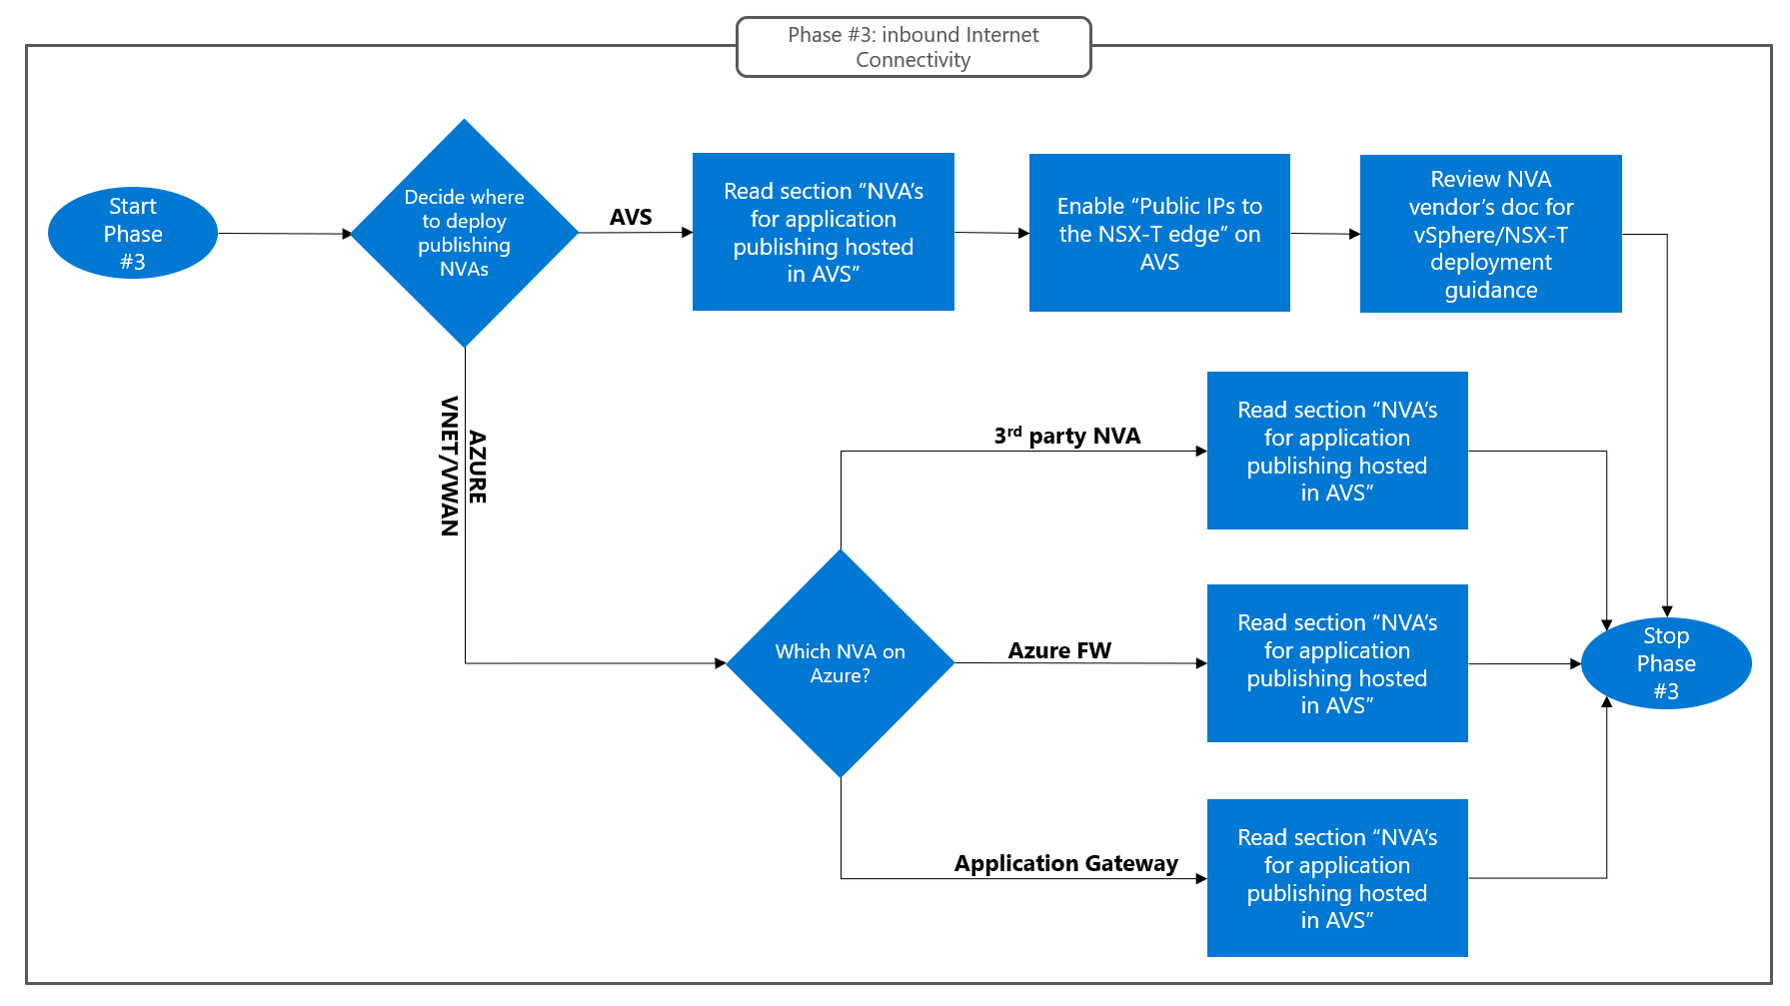
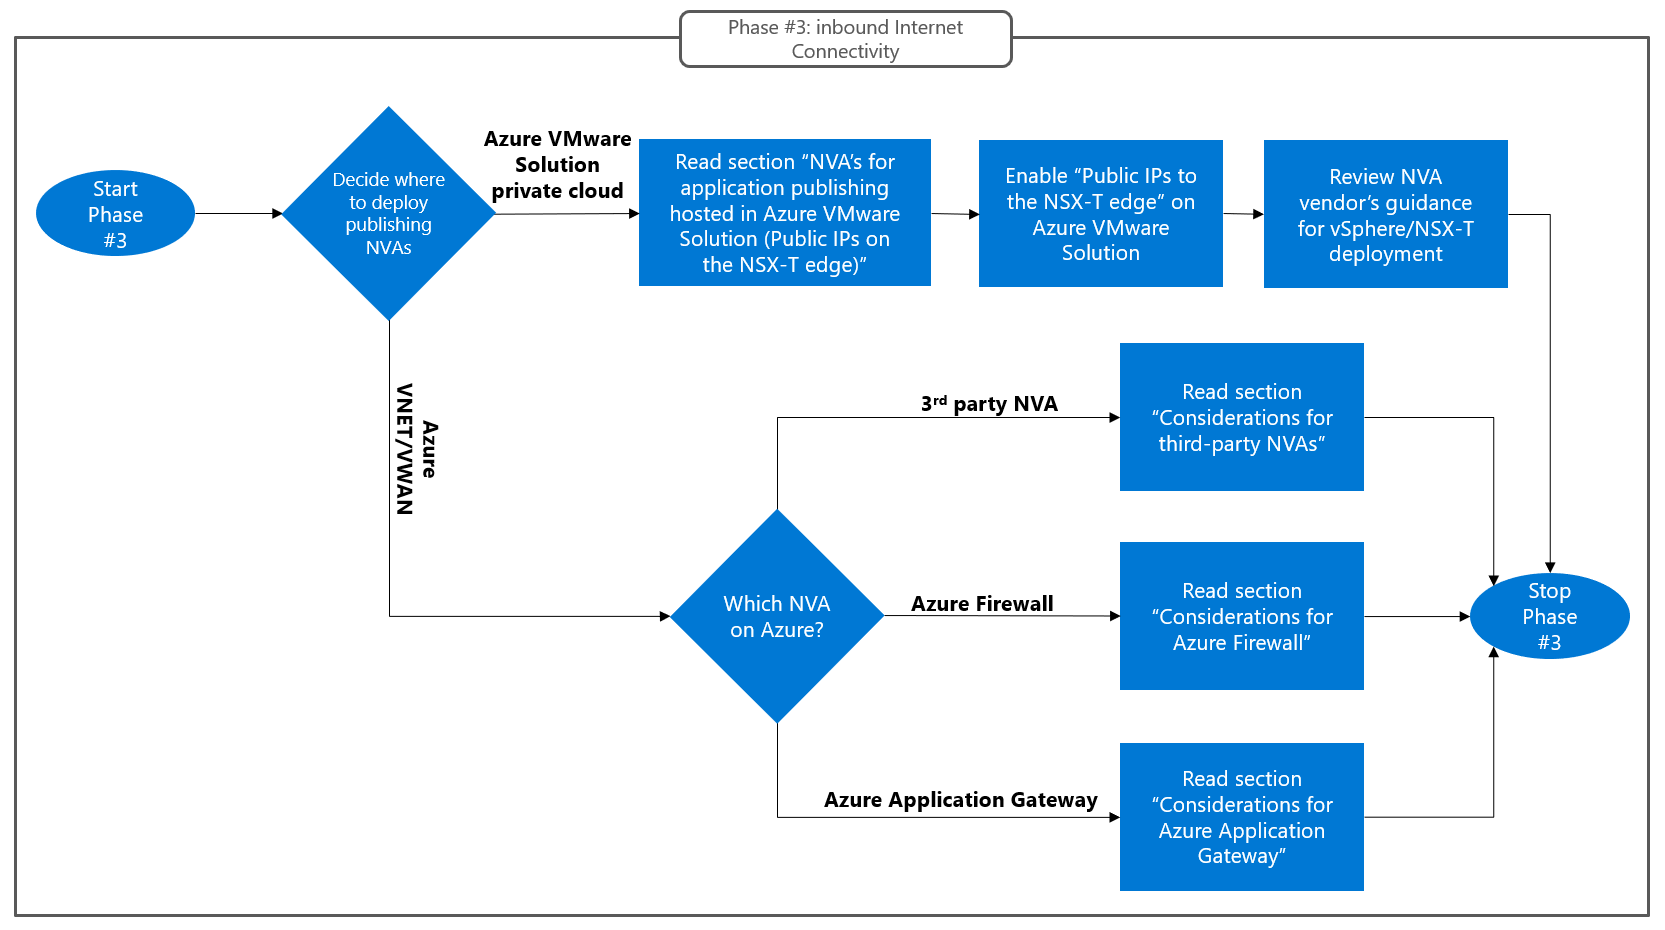
Review Phase#3

diff --git a/Network Design Guide/internet-inbound-connectivity.md b/Network Design Guide/internet-inbound-connectivity.md
@@ -1,9 +1,9 @@
 # Design phase #3: Internet inbound connectivity
-Inbound Internet connectivity for Azure VMware Solution must be designed based on the requirements set forth by applications running on Azure VMware Solution that must be reachable over public IP addresses. Almost invariably, Internet-facing applications are published through network devices for security (next generation firewalls, web application firewalls) and load balancing (layer-3/layer-4 load balancers, application delivery controllers, …) purposes. Azure VMware Solution supports deploying devices that provide these network functions on Azure VMware Solution itself, or in an Azure VNet connected to the private cloud. Choosing between these two options is the main goal of phase #3. The following considerations may help drive the decision:
+Design Phase #3 is driven by the requirements of the applications running on Azure VMware Solution that must be reachable over public IP addresses. Almost invariably, Internet-facing applications are published through network devices that provide security (next generation firewalls, web application firewalls) and load balancing (layer-3/layer-4 load balancers, application delivery controllers, …) functions. Such devices can be deployed on the private cloud itself, or in an Azure VNet connected to the private cloud. Choosing between these two options is the main goal of Design Phase #3. The following considerations may help drive the decision:
 
-- Azure VMware Solution customers with a pre-existing Azure footprint may have deployed NVAs for application delivery in Azure, which should be used for Azure VMware Solution applications too (both for cost optimization and for consistency).
-- Azure VMware Solution customers may want to leverage PaaS solutions available on Azure, to reduce management overhead. Azure PaaS offerings for that can be used for publishing Internet-facing applications include Azure Firewall (both when deployed in a customer managed VNet and when deployed in a Virtual WAN Hub) and Azure Application Gateway.
-- Azure VMware Solution customers that prefer to host the network infrastructure that supports their Azure VMware Solution applications entirely on Azure VMware Solution may want to deploy firewalls and/or application delivery controllers as Azure VMware Solution virtual machines, if supported by the NVA vendor.
+-  Azure VMware Solution customers may want to leverage pre-existing NVAs deployed in Azure VNets (firewalls, application delivery controllers, ...) to publish applications running on their private cloud(s), for cost optimization and for consistency.
+- Azure VMware Solution customers may want to leverage PaaS solutions available on Azure, to reduce management overhead. Azure services that can be used for publishing Internet-facing applications include [Azure Firewall](https://learn.microsoft.com/azure/firewall/tutorial-firewall-dnat) (both when deployed in a customer managed VNet and when deployed in a Virtual WAN Hub) and [Azure Application Gateway](https://learn.microsoft.com/azure/application-gateway/overview).
+- Azure VMware Solution customers that prefer to host the network infrastructure for Internet publishing in their private cloud(s) may want to deploy firewalls and/or application delivery controllers as Azure VMware Solution virtual machines, if supported by the NVA vendor.
 
 The flow chart below summarizes how to approach Phase #3:
  
@@ -11,35 +11,31 @@ The flow chart below summarizes how to approach Phase #3:
 *Design Phase #3: Design outbound Internet connectivity based on where NVAs for application publishing will be hosted (Azure VMware Solution or Azure VNet).*
 
 ## NVAs for application publishing hosted in an Azure VNet
-Publising Azure VMware Solution applications via Azure first-party services (Azure Firewall, Azure Application Gateway) or third-party NVAs hosted in a VNet only requires connectivity between the VNet and the Azure VMware Solution private cloud (covered in section [Azure VNet connectivity](vnet-connectivity.md)). Azure VMware Solution applications are published behind Azure Public IP resources assigned to the first-party service or third-party NVAs. Standalone Public IPs, Public IPs from [Public Ip Prefixes](https://learn.microsoft.com/azure/virtual-network/ip-services/public-ip-address-prefix) or Public IPs from [Custom IP Prefixes (BYOIP)](https://learn.microsoft.com/azure/virtual-network/ip-services/custom-ip-address-prefix) can be used. The first-party services or the third-party NVAs can act either as layer 3/4 devices (i.e. route/NAT connections to the application server VMs on Azure VMware Solution) or as layer 7 devices (i.e. reverse-proxy connections). In both cases, the application server VMs on Azure VMware Solution receive traffic destined to their private IP and originating from the publishing service/NVA's private IP.  
+Publishing Azure VMware Solution applications via Azure first-party services (Azure Firewall, Azure Application Gateway) or third-party NVAs hosted in a VNet only requires layer-3 connectivity between the VNet and the private cloud (covered in section [Azure VNet connectivity](vnet-connectivity.md)). Azure VMware Solution applications are published behind Azure Public IP resources assigned to the first-party service or third-party NVAs. Standalone Public IPs, Public IPs from [Public Ip Prefixes](https://learn.microsoft.com/azure/virtual-network/ip-services/public-ip-address-prefix) or Public IPs from [Custom IP Prefixes (BYOIP)](https://learn.microsoft.com/azure/virtual-network/ip-services/custom-ip-address-prefix) can be used. The first-party services or the third-party NVAs can act either as layer-3/layer-4 devices (i.e. route/NAT connections to the application server VMs on Azure VMware Solution) or as layer-7 devices (i.e. reverse-proxy connections). In both cases, the application server VMs on Azure VMware Solution receive traffic destined to their private IP and originating from the publishing service/NVA's private IP. Routing-wise, this is traffic between virtual machines running in the private cloud and Azure virtual machines, which is dealt with by the implementation option chosen in [Design Phase #2](vnet-connectivity.md). 
 
 ### Considerations for Azure Firewall
-[Azure Firewall](https://learn.microsoft.com/azure/firewall/overview) is the preferred option for exposing generic TCP or UDP endpoints through a first party layer-3/4 device. To publish an Azure VMware Solution application through Azure Firewall, a DNAT rule must be configured, which maps the one of the firewall's public IPs to the Azure VMware Solution application endpoint's private IP. Azure Firewall automatically Source-NATs inbound connections from the Internet behind its private IP address. As a result, Azure VMware Solution virtual machines receive traffic whose source IP address is the Firewall's IP.
-Please refer to the official documentation for instructions on [how to configure DNAT rules on Azure Firewall](https://learn.microsoft.com/azure/firewall/tutorial-firewall-dnat). 
+[Azure Firewall](https://learn.microsoft.com/azure/firewall/overview) is the preferred option for exposing generic TCP or UDP endpoints through a first party layer-3/layer-4 device. To publish an Azure VMware Solution application through Azure Firewall, a DNAT rule must be configured, which maps the one of the firewall's public IPs to the Azure VMware Solution application endpoint's private IP. Azure Firewall automatically Source-NATs inbound connections from the Internet behind its private IP address. As a result, Azure VMware Solution virtual machines receive traffic whose source IP address is the Firewall's IP. Please refer to the official documentation for instructions on [how to configure DNAT rules on Azure Firewall](https://learn.microsoft.com/azure/firewall/tutorial-firewall-dnat). 
 
 ### Considerations for Azure Application Gateway
-[Azure Application Gateway](https://learn.microsoft.com/azure/application-gateway/overview-v2) is the preferred option for exposing HTTP(S) applications running on AVS through a first-party layer-7 device with HTTP request routing and WAF capabilities. Application Gateway is an HTTP reverse proxy. It terminates TCP connetions from the client and establishes upstream connections between itself and the target application servers. As a result, the application servers receive traffic whose source IP address is the Application Gateway's IP. It should be noted that the client's IP address can be carried in HTTP requests (typically, as a custom "X-Forwarded-For" header) if the application logic requires access to such information.
-Please refer to the official documentation for instructions on [how to publish an Azure VMware Solution application through Application Gateway](https://learn.microsoft.com/azure/application-gateway/quick-create-portal)
+[Azure Application Gateway](https://learn.microsoft.com/azure/application-gateway/overview-v2) is the preferred option for exposing HTTP(S) applications running on Azure VMware Solution through a first-party layer-7 device with HTTP request routing and WAF capabilities. Application Gateway is an HTTP reverse proxy. It terminates TCP connections from the client and establishes upstream connections between itself and the target application servers. As a result, the application servers receive traffic whose source IP address is the Application Gateway's IP. It should be noted that the client's IP address can be carried in HTTP requests (typically, as a [custom "X-Forwarded-For" header](https://learn.microsoft.com/azure/application-gateway/how-application-gateway-works#modifications-to-the-request)) if the application logic requires access to such information. Please refer to the official documentation for instructions on [how to publish an Azure VMware Solution application through Application Gateway](https://learn.microsoft.com/azure/application-gateway/quick-create-portal)
 
 > **Note** <br>
-> Azure Application Gateway is currently the only supported first-party load balancer to expose web apps running on Azure VMware Solution VMs. This is because it allows pointing directly to IP Addresses of VMs running on Azure VMware Solution when configuring its backend pool. In contrast, other load balancer services such as Azure Load Balancer do not allow this currently.
+> Azure Application Gateway is currently the only supported first-party load balancer to expose web apps running on Azure VMware Solution VMs. This is because it allows pointing directly to the private IP addresses of VMs running on Azure VMware Solution when configuring its backend pool. In contrast, other load balancing services, such as Azure Load Balancer, do not allow this currently.
 
-### Considerations for third-party NVA’s
-Third-party NVAs can provide layer-3/4 firewalling capabilities or layer-7 reverse-proxying/WAF capabilities. Guidance from the NVA vendor should be followed for deployment in Azure VNets. The main consideration when using third-party NVAs is that high availability is the user's responsibility. Detailed guidance on how to build highly avaialble clusters of NVAs in Azure is beyond the scope of this guide. The following high-level considerations are general enough to apply to any NVA technology:
+### Considerations for third-party NVAs
+Third-party NVAs can provide layer-3/layer-4 firewall capabilities or layer-7 reverse-proxy/WAF capabilities. Guidance from the NVA vendor should be followed for deployment in Azure VNets. The main consideration when using third-party NVAs is that high availability is the user's responsibility. Detailed guidance on how to build highly-available clusters of NVAs in Azure is beyond the scope of this guide. The following high-level considerations are general enough to apply to any NVA technology:
 
-- NVA clusters should be comprised of two or more **active** NVA instances (N-active HA model. Active/Passive HA should be avoided becasue it prevents horizontal scalability).
-- Inbound Internet connections should be distributed to all running instaces using a [Standard SKU Azure Load Balancer](https://learn.microsoft.com/azure/load-balancer/skus).  
-- Layer-3/4 NVAs must be configured to Destination-NAT inbound Internet connections to the private IP of the Azure VMware Solution application(s) to be published.
-- Layer-3/4 NVAs must be configured to Source-NAT inbound Internet connections behind their egress interface's private IP address, to preserve flow symmetry.  
-- Layer-7 NVAs act as reverse-proxies and maintain two distinct TCP session for each Internet inbound connection (one between the client and the NVA; one between the NVA and the upstream application server). As a result, they do not perform any network address transalation. HTTP(S) applications allow layer-7 NVAs to pass the client's public IP address to the application servers in HTTP request headers.
+- NVA clusters should be comprised of two or more **active** NVA instances (N-active HA model. Active/Passive HA should be avoided as it prevents horizontal scalability).
+- Inbound Internet connections should be distributed to all running instances using a [Standard SKU Azure Load Balancer](https://learn.microsoft.com/azure/load-balancer/skus).  
+- Layer-3/layer-4 NVAs must be configured to destination-NAT inbound Internet connections to the private IP of the Azure VMware Solution application(s) to be published.
+- Layer-3/layer-4 NVAs must be configured to source-NAT inbound Internet connections behind their egress interface's private IP address, to preserve flow symmetry.  
+- Layer-7 NVAs act as reverse-proxies and maintain two distinct TCP sessions for each inbound client connection: One between the client and the NVA and one between the NVA and the upstream application server. The latter session originates from the NVA egress interface's private IP address. HTTP(S) applications allow layer-7 NVAs to pass the client's public IP address to the application servers in HTTP request headers.
 
 ## NVA’s for application publishing hosted in Azure VMware Solution (Public IPs on the NSX-T edge)
-Publising Azure VMware Solution applications via third-party NVAs deployed on Azure VMware Solution requires enabling [Public IPs on the NSX-T edge](https://learn.microsoft.com/azure/azure-vmware/enable-public-ip-nsx-edge) for the private cloud. The functionality associates Azure Public IPs from an [Azure Public IP Prefix](https://learn.microsoft.com/azure/virtual-network/ip-services/public-ip-address-prefix) to the private clould and configures the Microsoft backbone to route Internet traffic destined those IPs to the private cloud's NSX-T T0/T1 gateways. T1 gateways can then be configured to Destination-NAT inbound connections to the private IPs of NVAs attached to NSX-T segments. Detailed guidance for configuring Public IPs to the NSX-T edge and Destination-NAT rules for inbound Internet connectivity is [available in the public doc](https://learn.microsoft.com/azure/azure-vmware/enable-public-ip-nsx-edge#inbound-internet-access-for-vms).
-When using Azure VMware Solution with Public IPs to the NSX-T edge, the following considerations apply:
-
+Publishing Azure VMware Solution applications via third-party NVAs deployed on Azure VMware Solution requires enabling [Public IPs on the NSX-T edge](https://learn.microsoft.com/azure/azure-vmware/enable-public-ip-nsx-edge) for the private cloud. The functionality associates Azure Public IPs from an [Azure Public IP Prefix](https://learn.microsoft.com/azure/virtual-network/ip-services/public-ip-address-prefix) to the private cloud and configures the Microsoft backbone to route Internet traffic destined those IPs to the private cloud's NSX-T T0/T1 gateways. T1 gateways can then be configured to destination-NAT inbound connections to the private IPs of NVAs attached to NSX-T segments. Detailed guidance for configuring Public IPs to the NSX-T edge and destination-NAT rules for inbound Internet connectivity is [available in the public doc](https://learn.microsoft.com/azure/azure-vmware/enable-public-ip-nsx-edge#inbound-internet-access-for-vms). When using Azure VMware Solution with Public IPs to the NSX-T edge, the following considerations apply:
 - NAT should be done on T1 gateways, not on T0 gateways. In Azure VMware Solution private clouds, T0 gateways are active/active device pairs and, as such, cannot handle stateful NAT sessions. 
-- Public IPs must be associated to an Azure Public IP Prefix. It is currently unspported to use IPs from [Custom IP Prefixes (BYOIP)](https://learn.microsoft.com/azure/virtual-network/ip-services/custom-ip-address-prefix).
-- When an Azure VMware Solution Private Cloud is configured with Public IPs to the NSX-T edge, a default route is installed in T0/T1 gateways, which routes outbound Internet connections via the Microsoft backbone's edge. As a result, using Public IPs on the NSX-T edge for Internet inbound connectivity also defines the implmenetation option for outbound connectivity, covered in the [next section](internet-outbound-connectivity.md).
+- Public IPs must be associated to an Azure Public IP Prefix. It is currently unsupported to use IPs from [Custom IP Prefixes (BYOIP)](https://learn.microsoft.com/azure/virtual-network/ip-services/custom-ip-address-prefix).
+- When an Azure VMware Solution Private Cloud is configured with Public IPs to the NSX-T edge, a default route is installed in T0/T1 gateways, which routes outbound Internet connections via the Microsoft backbone's edge. As a result, using Public IPs on the NSX-T edge for Internet inbound connectivity also defines the implementation option for outbound connectivity, covered in the [next section](internet-outbound-connectivity.md).
 
 ## Next Steps
 - Go to the next section to learn about [outbound internet connectivity](internet-outbound-connectivity.md)
